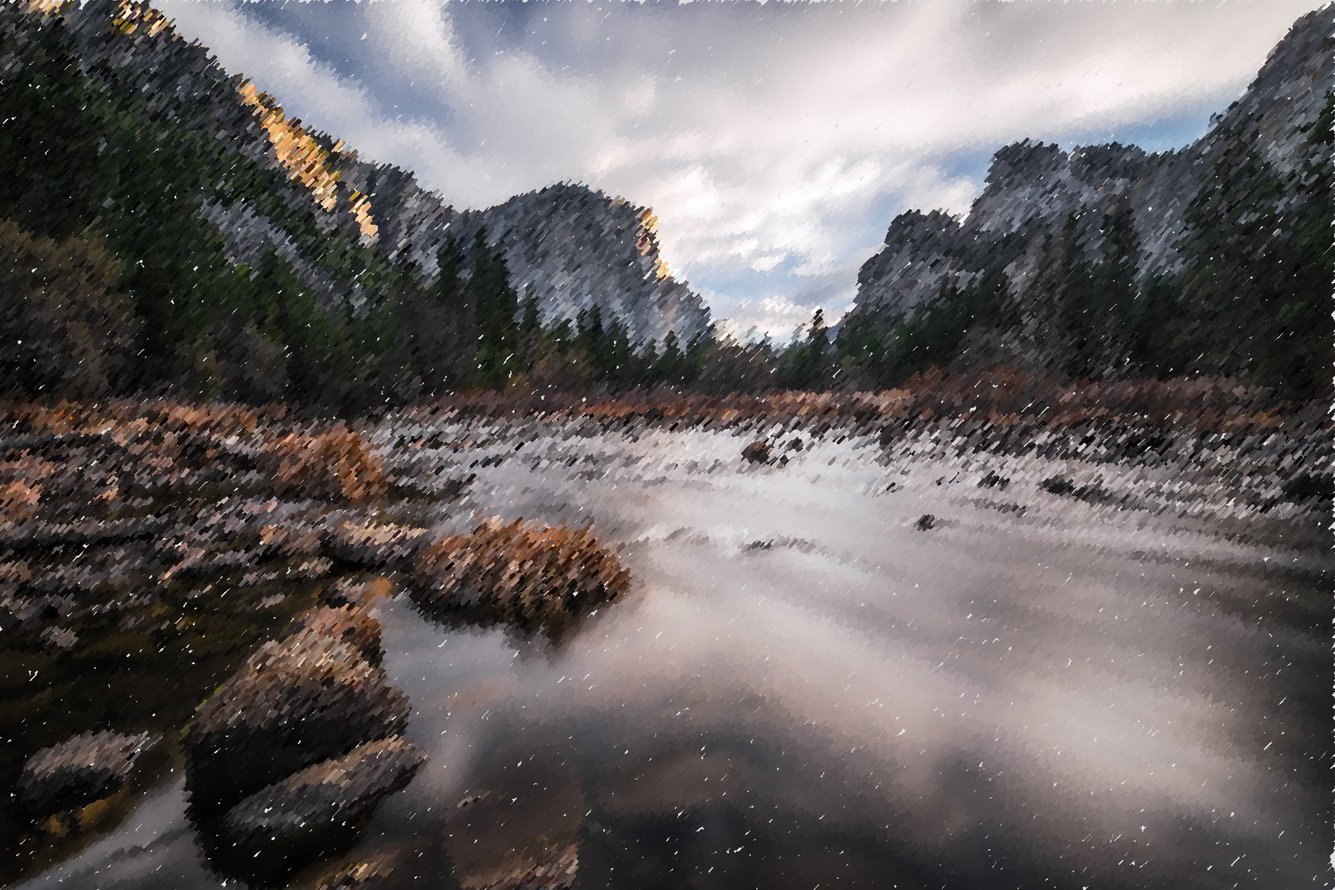
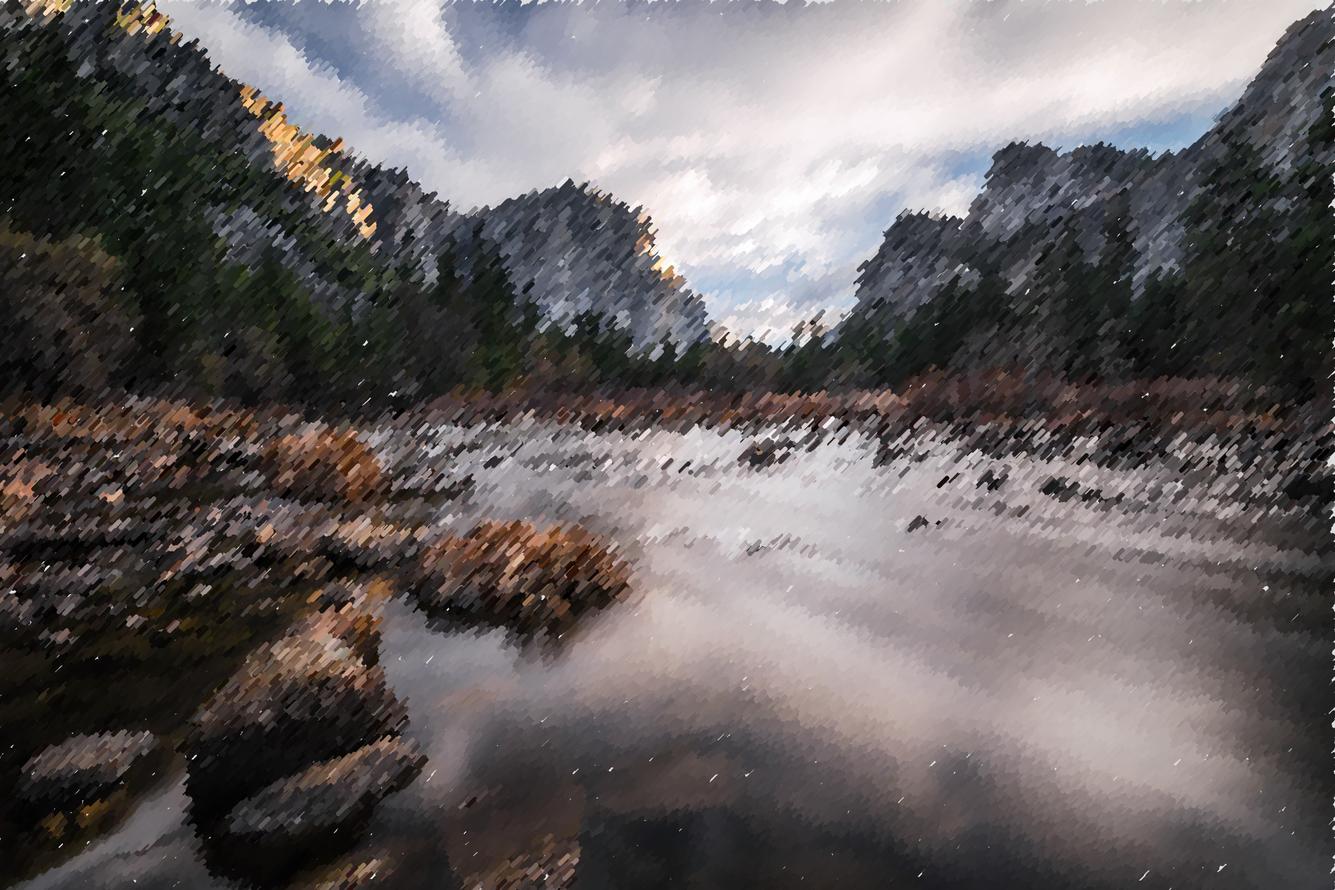
Deleted unnecessary images

diff --git a/about.html b/about.html
@@ -68,7 +68,7 @@
                     </div>
                     <div class="col-md-8 col-sm-12">
                          &nbsp;
-                         <img src="images/rough-valley.png" class="img-responsive" alt="About">
+                         <img src="images/valley.png" class="img-responsive" alt="About">
                          <h6>Piece coded by Nora Calif | Photography by Conor MacNeill</h6>
                     </div>
 
